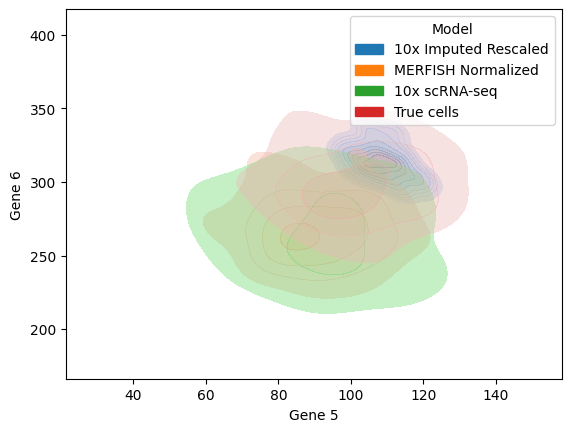
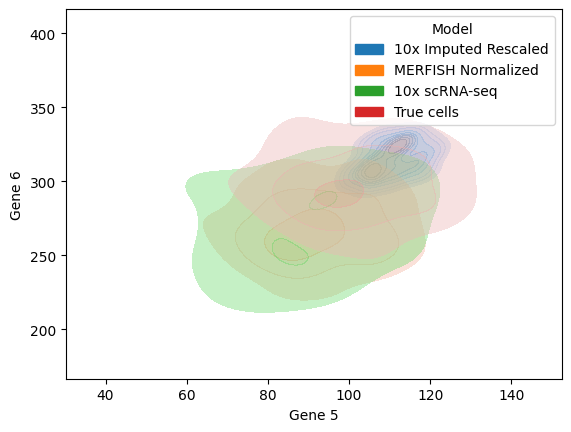
deploy: 8553b861dc1f3eac10ef0c5c61f1d69fff78cb56

diff --git a/searchindex.js b/searchindex.js
@@ -1,1 +1,1 @@
-Search.setIndex({docnames:["content","intro","markdown","notebooks"],envversion:{"sphinx.domains.c":2,"sphinx.domains.changeset":1,"sphinx.domains.citation":1,"sphinx.domains.cpp":5,"sphinx.domains.index":1,"sphinx.domains.javascript":2,"sphinx.domains.math":2,"sphinx.domains.python":3,"sphinx.domains.rst":2,"sphinx.domains.std":2,"sphinx.ext.intersphinx":1,"sphinxcontrib.bibtex":9,sphinx:56},filenames:["content.md","intro.md","markdown.md","notebooks.ipynb"],objects:{},objnames:{},objtypes:{},terms:{"0":3,"0s":3,"10":3,"100":3,"1000":3,"10000":3,"1002":3,"101":3,"10138":3,"102":3,"1031":3,"10366":3,"1056":3,"11":3,"110":3,"111":3,"116":3,"118":3,"121":3,"133":3,"15":3,"16":3,"17":3,"1738":3,"18":3,"19":3,"20":3,"2014":2,"21":3,"22":3,"23":3,"246":3,"2574":3,"263":3,"2672":3,"268":3,"269":3,"2691":3,"2698":3,"27":3,"2745":3,"285":3,"286":3,"2861":3,"29":3,"290":3,"293":3,"2938":3,"295":3,"296":3,"2961":3,"297":3,"2970":3,"2982":3,"2987":3,"30":3,"300":3,"3000":3,"3003":3,"3063":3,"3073":3,"3075":3,"317":3,"32":3,"320":3,"322":3,"37":3,"4":3,"40":3,"41":3,"5":3,"6":3,"7":3,"74":3,"8":3,"80":3,"85":3,"853":3,"861":3,"88":3,"887":3,"8930":3,"8968":3,"8972":3,"898":3,"9":3,"90":3,"902":3,"906":3,"912":3,"9135":3,"93":3,"930":3,"933":3,"9331":3,"94":3,"940":3,"944":3,"983":3,"99":3,"9927":3,"9959":3,"9983":3,"case":3,"default":[2,3],"do":[0,2],"function":[2,3],"import":3,"int":3,"new":[1,3],"return":3,"short":0,"true":3,At:2,For:2,If:2,In:2,It:2,The:2,Then:3,There:[0,2],_:3,abl:3,about:[1,2,3],academ:1,accept:2,add:2,after_imput:3,again:2,all:2,all_gen:3,allow:2,alpha:3,alreadi:2,also:[2,3],am:1,an:3,analysi:3,ani:[1,2],anndata:3,anoth:[2,3],appear:3,applymap:3,approach:3,ar:[0,3],artificially_sample_cel:3,associ:2,attempt:3,auditori:2,australia:2,axi:3,back:3,basi:3,becom:3,befor:3,before_imput:3,being:[2,3],bernoulli:3,besid:3,bib:2,bibliographi:2,bibtex:2,binomi:3,block:2,blog:3,book:2,both:2,bound:3,box:2,brian:2,brisban:2,broad:3,build:2,built:2,call:2,can:[1,2,3],captur:3,capture_r:3,cell:2,cell_gener:3,choic:3,christoph:2,cite:2,claim:3,close:3,cognit:2,column:3,come:3,command:2,commonmark:2,compar:3,complex:2,comput:[1,2],concat:3,confer:2,content:2,copi:3,cortex:2,could:3,cover:0,creat:3,create_synthetic_cel:3,current:3,d:2,data:1,datafram:3,de:2,def:3,defin:2,denois:3,depend:2,despit:3,determin:3,develop:3,df:3,differ:[2,3],directli:2,discov:3,diseas:1,displai:2,dist:3,distribut:3,divid:3,doc:2,document:2,doesn:2,downstream:3,drop:3,dropout:3,due:3,duplic:3,each:3,ecosystem:2,effect:3,els:3,engin:1,entir:2,errerron:3,evid:2,exact:3,exampl:2,exist:2,extens:2,extern:3,f:3,fail:3,fals:3,few:0,figur:3,fill:3,find:1,first:2,flavor:2,fluoresc:3,follow:2,fraction:3,from:3,frontier:2,g:3,gene:3,given:3,go:1,goal:3,ground:3,ha:[2,3],hdhpk14:2,head:3,health:1,heer:2,hello:1,help:[1,3],here:[2,3],high:3,hold:3,holdgraf:2,holdgraf_evidence_2014:2,how:0,hue:3,human:2,i:[1,3],identifi:3,ignore_index:3,improv:3,imputed_df:3,imputed_resc:3,imputed_rescaled_df:3,includ:[2,3],indic:3,inform:[2,3],init:2,inplac:3,input:[2,3],insert:2,insid:2,insight:1,institut:3,interest:1,intern:2,intro:2,ipynb:2,its:[2,3],journei:1,junior:1,jupyt:2,jupytext:2,kdeplot:3,kernel:2,kind:2,knight:2,krishnaswami:3,lab:3,lambda:3,languag:2,later:3,learn:1,len:3,less:2,leverag:1,like:2,limit:3,line:2,list:3,ll:2,look:2,lost:3,lower:3,m100:3,m100_new:3,m99:3,m99_new:3,mani:[0,2],markedli:2,markup:2,math:1,matplotlib:3,max:3,max_ratio:3,md:2,meanwhil:3,measur:3,median:3,merfish_df:3,merfish_original_synth:3,merfish_repr:3,merfish_rna_count:3,metadata:2,method:3,metric:3,mit:1,model:3,molecul:3,more:[2,3],moreov:2,mortem:3,most:2,mrna:3,much:3,multipli:3,must:2,my:[1,2],mydirectivenam:2,n:[2,3],n_job:3,name:[1,2],name_list:3,nb:2,nbinom:3,necessari:3,neg:3,neurosci:2,normalize_tot:3,normalized_sum:3,note:2,notebook:2,np:3,number:3,number_cel:3,numpi:3,obscur:3,observ:3,observerd:3,obtain:3,older:3,onc:2,one:2,onli:[2,3],order:3,our:3,output:[2,3],over:1,p:3,page:2,panda:3,paramet:3,paslei:2,path:2,pattern:2,pd:3,percentil:3,perform:3,pipelin:3,plt:3,popular:3,post:3,potenti:3,power:2,pp:3,pre:[2,3],predict:2,previous:3,print:2,probabl:3,process:3,profil:3,promis:3,properli:2,purpos:2,pyplot:3,ramsai:2,random:3,rang:3,rate:3,re:3,ready_for_plot:3,receiv:3,recuper:3,refer:2,regular:2,rel:2,relationship:3,render:2,repres:3,rescale_data:3,research:1,resembl:3,rest:2,result:2,rna:3,rna_species_char:3,rna_species_characteristic_numb:3,robert:2,rolenam:2,root:3,row:3,rule:1,run:2,rv:3,rv_continu:3,rv_discret:3,s:[2,3],same:2,sampl:3,saul:1,sc:3,scanpi:3,scatterplot:3,sce:3,scienc:1,scipi:3,scnra:3,seaborn:3,section:0,see:[1,2,3],seed:3,sequenc:3,serv:[2,3],set:3,set_axi:3,shape:3,share:1,sim_captur:3,similar:[2,3],simpl:3,simplest:2,singl:3,site:2,size:3,slight:2,small:2,sn:3,so:[0,2],solver:3,some:2,span:2,speci:3,specif:2,spectrum:3,sphinx:2,sqrt:3,squar:3,stand:2,stat:3,step:3,still:3,store:2,strive:1,structur:2,studi:1,success:3,successfulli:3,sum:3,support:3,syntax:2,synth_cel:3,t:[2,3],target:3,target_data:3,target_sum:3,tenx_norm:3,tenx_norm_df:3,tenx_original_synth:3,tenx_raw:3,tenx_repr:3,tenx_rescaled_norm:3,test:3,text:2,thei:[2,3],thi:[0,1,2,3],thing:1,think:3,those:2,through:1,throughout:1,thu:3,tile:3,time:[1,2],tip:0,tissu:3,to_df:3,tool:[2,3],transcript:3,transform:3,true_cells_df:3,truth:3,two:[2,3],univers:3,us:[1,3],util:3,valid:2,valu:3,variat:2,veri:2,version:3,vestigi:3,visual:3,wai:0,we:3,weight:3,welcom:2,wendi:2,what:1,when:2,where:3,wherea:2,whether:[2,3],which:[2,3],within:3,without:3,work:2,write:[0,2,3],written:2,x:3,y:3,you:2,your:3},titles:["Content in Jupyter Book","Welcome to the site!","Markdown Files","Evaluating MAGIC with Synthetic Dataset"],titleterms:{"1":3,"10x":3,"2":3,"3":3,ad:2,after:3,ar:2,book:0,both:3,cell:3,citat:2,code:2,content:0,count:3,data:3,dataset:3,direct:2,evalu:3,execut:2,file:2,gener:3,imput:3,intro:3,jupyt:0,magic:3,markdown:2,merfish:3,myst:2,normal:3,peek:3,plot:3,rescal:3,result:3,role:2,run:3,scrna:3,seq:3,simul:3,site:1,synthet:3,us:2,welcom:1,what:2,your:2}})
+Search.setIndex({docnames:["content","intro","markdown","notebooks"],envversion:{"sphinx.domains.c":2,"sphinx.domains.changeset":1,"sphinx.domains.citation":1,"sphinx.domains.cpp":5,"sphinx.domains.index":1,"sphinx.domains.javascript":2,"sphinx.domains.math":2,"sphinx.domains.python":3,"sphinx.domains.rst":2,"sphinx.domains.std":2,"sphinx.ext.intersphinx":1,"sphinxcontrib.bibtex":9,sphinx:56},filenames:["content.md","intro.md","markdown.md","notebooks.ipynb"],objects:{},objnames:{},objtypes:{},terms:{"0":3,"0s":3,"10":3,"100":3,"1000":3,"10000":3,"1002":3,"10138":3,"1031":3,"10366":3,"1056":3,"107":3,"112":3,"116":3,"118":3,"121":3,"13":3,"133":3,"16":3,"17":3,"1738":3,"18":3,"20":3,"2014":2,"21":3,"25":3,"2577":3,"260":3,"263":3,"265":3,"2673":3,"2686":3,"2690":3,"2736":3,"275":3,"277":3,"2861":3,"289":3,"29":3,"290":3,"295":3,"296":3,"2970":3,"2982":3,"2987":3,"299":3,"2993":3,"30":3,"300":3,"3000":3,"3009":3,"3049":3,"3070":3,"3073":3,"3129":3,"32":3,"320":3,"324":3,"329":3,"39":3,"4":3,"40":3,"44":3,"5":3,"6":3,"7":3,"76":3,"8":3,"84":3,"85":3,"857":3,"868":3,"875":3,"882":3,"8927":3,"8968":3,"897":3,"9":3,"90":3,"900":3,"9015":3,"902":3,"91":3,"9126":3,"922":3,"9300":3,"937":3,"94":3,"940":3,"95":3,"965":3,"983":3,"99":3,"9927":3,"9959":3,"9983":3,"case":3,"default":[2,3],"do":[0,2],"function":[2,3],"import":3,"int":3,"new":[1,3],"return":3,"short":0,"true":3,At:2,For:2,If:2,In:2,It:2,The:2,Then:3,There:[0,2],_:3,abl:3,about:[1,2,3],academ:1,accept:2,add:2,after_imput:3,again:2,all:2,all_gen:3,allow:2,alpha:3,alreadi:2,also:[2,3],am:1,an:3,analysi:3,ani:[1,2],anndata:3,anoth:[2,3],appear:3,applymap:3,approach:3,ar:[0,3],artificially_sample_cel:3,associ:2,attempt:3,auditori:2,australia:2,axi:3,back:3,basi:3,becom:3,befor:3,before_imput:3,being:[2,3],bernoulli:3,besid:3,bib:2,bibliographi:2,bibtex:2,binomi:3,block:2,blog:3,book:2,both:2,bound:3,box:2,brian:2,brisban:2,broad:3,build:2,built:2,call:2,can:[1,2,3],captur:3,capture_r:3,cell:2,cell_gener:3,choic:3,christoph:2,cite:2,claim:3,close:3,cognit:2,column:3,come:3,command:2,commonmark:2,compar:3,complex:2,comput:[1,2],concat:3,confer:2,content:2,copi:3,cortex:2,could:3,cover:0,creat:3,create_synthetic_cel:3,current:3,d:2,data:1,datafram:3,de:2,def:3,defin:2,denois:3,depend:2,despit:3,determin:3,develop:3,df:3,differ:[2,3],directli:2,discov:3,diseas:1,displai:2,dist:3,distribut:3,divid:3,doc:2,document:2,doesn:2,downstream:3,drop:3,dropout:3,due:3,duplic:3,each:3,ecosystem:2,effect:3,els:3,engin:1,entir:2,errerron:3,evid:2,exact:3,exampl:2,exist:2,extens:2,extern:3,f:3,fail:3,fals:3,few:0,figur:3,fill:3,find:1,first:2,flavor:2,fluoresc:3,follow:2,fraction:3,from:3,frontier:2,g:3,gene:3,given:3,go:1,goal:3,ground:3,ha:[2,3],hdhpk14:2,head:3,health:1,heer:2,hello:1,help:[1,3],here:[2,3],high:3,hold:3,holdgraf:2,holdgraf_evidence_2014:2,how:0,hue:3,human:2,i:[1,3],identifi:3,ignore_index:3,improv:3,imputed_df:3,imputed_resc:3,imputed_rescaled_df:3,includ:[2,3],indic:3,inform:[2,3],init:2,inplac:3,input:[2,3],insert:2,insid:2,insight:1,institut:3,interest:1,intern:2,intro:2,ipynb:2,its:[2,3],journei:1,junior:1,jupyt:2,jupytext:2,kdeplot:3,kernel:2,kind:2,knight:2,krishnaswami:3,lab:3,lambda:3,languag:2,later:3,learn:1,len:3,less:2,leverag:1,like:2,limit:3,line:2,list:3,ll:2,look:2,lost:3,lower:3,m100:3,m100_new:3,m99:3,m99_new:3,mani:[0,2],markedli:2,markup:2,math:1,matplotlib:3,max:3,max_ratio:3,md:2,meanwhil:3,measur:3,median:3,merfish_df:3,merfish_original_synth:3,merfish_repr:3,merfish_rna_count:3,metadata:2,method:3,metric:3,mit:1,model:3,molecul:3,more:[2,3],moreov:2,mortem:3,most:2,mrna:3,much:3,multipli:3,must:2,my:[1,2],mydirectivenam:2,n:[2,3],n_job:3,name:[1,2],name_list:3,nb:2,nbinom:3,necessari:3,neg:3,neurosci:2,normalize_tot:3,normalized_sum:3,note:2,notebook:2,np:3,number:3,number_cel:3,numpi:3,obscur:3,observ:3,observerd:3,obtain:3,older:3,onc:2,one:2,onli:[2,3],order:3,our:3,output:[2,3],over:1,p:3,page:2,panda:3,paramet:3,paslei:2,path:2,pattern:2,pd:3,percentil:3,perform:3,pipelin:3,plt:3,popular:3,post:3,potenti:3,power:2,pp:3,pre:[2,3],predict:2,previous:3,print:2,probabl:3,process:3,profil:3,promis:3,properli:2,purpos:2,pyplot:3,ramsai:2,random:3,rang:3,rate:3,re:3,ready_for_plot:3,receiv:3,recuper:3,refer:2,regular:2,rel:2,relationship:3,render:2,repres:3,rescale_data:3,research:1,resembl:3,rest:2,result:2,rna:3,rna_species_char:3,rna_species_characteristic_numb:3,robert:2,rolenam:2,root:3,row:3,rule:1,run:2,rv:3,rv_continu:3,rv_discret:3,s:[2,3],same:2,sampl:3,saul:1,sc:3,scanpi:3,scatterplot:3,sce:3,scienc:1,scipi:3,scnra:3,seaborn:3,section:0,see:[1,2,3],seed:3,sequenc:3,serv:[2,3],set:3,set_axi:3,shape:3,share:1,sim_captur:3,similar:[2,3],simpl:3,simplest:2,singl:3,site:2,size:3,slight:2,small:2,sn:3,so:[0,2],solver:3,some:2,span:2,speci:3,specif:2,spectrum:3,sphinx:2,sqrt:3,squar:3,stand:2,stat:3,step:3,still:3,store:2,strive:1,structur:2,studi:1,success:3,successfulli:3,sum:3,support:3,syntax:2,synth_cel:3,t:[2,3],target:3,target_data:3,target_sum:3,tenx_norm:3,tenx_norm_df:3,tenx_original_synth:3,tenx_raw:3,tenx_repr:3,tenx_rescaled_norm:3,test:3,text:2,thei:[2,3],thi:[0,1,2,3],thing:1,think:3,those:2,through:1,throughout:1,thu:3,tile:3,time:[1,2],tip:0,tissu:3,to_df:3,tool:[2,3],transcript:3,transform:3,true_cells_df:3,truth:3,two:[2,3],univers:3,us:[1,3],util:3,valid:2,valu:3,variat:2,veri:2,version:3,vestigi:3,visual:3,wai:0,we:3,weight:3,welcom:2,wendi:2,what:1,when:2,where:3,wherea:2,whether:[2,3],which:[2,3],within:3,without:3,work:2,write:[0,2,3],written:2,x:3,y:3,you:2,your:3},titles:["Content in Jupyter Book","Welcome to the site!","Markdown Files","Evaluating MAGIC with Synthetic Dataset"],titleterms:{"1":3,"10x":3,"2":3,"3":3,ad:2,after:3,ar:2,book:0,both:3,cell:3,citat:2,code:2,content:0,count:3,data:3,dataset:3,direct:2,evalu:3,execut:2,file:2,gener:3,imput:3,intro:3,jupyt:0,magic:3,markdown:2,merfish:3,myst:2,normal:3,peek:3,plot:3,rescal:3,result:3,role:2,run:3,scrna:3,seq:3,simul:3,site:1,synthet:3,us:2,welcom:1,what:2,your:2}})

diff --git a/notebooks.html b/notebooks.html
@@ -537,7 +537,7 @@ from scipy.stats import nbinom
 </div>
 </div>
 </div>
-<div class="cell docutils container">
+<div class="cell tag_hide-input docutils container">
 <div class="cell_input docutils container">
 <div class="highlight-ipython3 notranslate"><div class="highlight"><pre><span></span># Functions
 seed(1738)
@@ -781,40 +781,40 @@ tenx_original_synth[&quot;Model&quot;] = &quot;10x scRNA-seq&quot;
     <tr>
       <th>0</th>
       <td>1</td>
-      <td>3</td>
+      <td>2</td>
       <td>7</td>
-      <td>27</td>
-      <td>111</td>
-      <td>263</td>
-      <td>861</td>
-      <td>2698</td>
-      <td>9135</td>
+      <td>29</td>
+      <td>112</td>
+      <td>260</td>
+      <td>857</td>
+      <td>2686</td>
+      <td>9126</td>
       <td>MERFISH</td>
     </tr>
     <tr>
       <th>1</th>
       <td>2</td>
       <td>3</td>
-      <td>3</td>
+      <td>5</td>
       <td>20</td>
-      <td>101</td>
-      <td>269</td>
-      <td>912</td>
-      <td>2691</td>
-      <td>9331</td>
+      <td>99</td>
+      <td>265</td>
+      <td>900</td>
+      <td>2673</td>
+      <td>9300</td>
       <td>MERFISH</td>
     </tr>
     <tr>
       <th>2</th>
-      <td>8</td>
-      <td>0</td>
-      <td>15</td>
+      <td>7</td>
+      <td>1</td>
+      <td>13</td>
       <td>16</td>
       <td>118</td>
-      <td>285</td>
-      <td>933</td>
-      <td>2745</td>
-      <td>8968</td>
+      <td>289</td>
+      <td>922</td>
+      <td>2736</td>
+      <td>9015</td>
       <td>MERFISH</td>
     </tr>
     <tr>
@@ -822,25 +822,25 @@ tenx_original_synth[&quot;Model&quot;] = &quot;10x scRNA-seq&quot;
       <td>0</td>
       <td>2</td>
       <td>8</td>
-      <td>23</td>
-      <td>110</td>
-      <td>293</td>
-      <td>902</td>
-      <td>2574</td>
-      <td>8972</td>
+      <td>25</td>
+      <td>107</td>
+      <td>290</td>
+      <td>868</td>
+      <td>2577</td>
+      <td>8927</td>
       <td>MERFISH</td>
     </tr>
     <tr>
       <th>4</th>
+      <td>6</td>
+      <td>2</td>
       <td>7</td>
-      <td>1</td>
-      <td>7</td>
-      <td>22</td>
-      <td>74</td>
-      <td>246</td>
-      <td>944</td>
-      <td>2672</td>
-      <td>8930</td>
+      <td>29</td>
+      <td>76</td>
+      <td>263</td>
+      <td>965</td>
+      <td>2690</td>
+      <td>8968</td>
       <td>MERFISH</td>
     </tr>
   </tbody>
@@ -891,66 +891,66 @@ tenx_original_synth[&quot;Model&quot;] = &quot;10x scRNA-seq&quot;
     <tr>
       <th>0</th>
       <td>0</td>
-      <td>2</td>
+      <td>1</td>
       <td>3</td>
-      <td>6</td>
-      <td>37</td>
-      <td>94</td>
-      <td>268</td>
-      <td>906</td>
-      <td>3075</td>
+      <td>9</td>
+      <td>32</td>
+      <td>85</td>
+      <td>277</td>
+      <td>897</td>
+      <td>3070</td>
       <td>10x scRNA-seq</td>
     </tr>
     <tr>
       <th>1</th>
       <td>1</td>
+      <td>1</td>
       <td>2</td>
-      <td>2</td>
-      <td>9</td>
-      <td>41</td>
-      <td>80</td>
-      <td>297</td>
-      <td>853</td>
-      <td>3063</td>
+      <td>10</td>
+      <td>39</td>
+      <td>91</td>
+      <td>299</td>
+      <td>902</td>
+      <td>3129</td>
       <td>10x scRNA-seq</td>
     </tr>
     <tr>
       <th>2</th>
-      <td>1</td>
+      <td>2</td>
       <td>0</td>
       <td>4</td>
-      <td>7</td>
-      <td>41</td>
-      <td>102</td>
-      <td>286</td>
-      <td>898</td>
-      <td>2961</td>
+      <td>6</td>
+      <td>44</td>
+      <td>94</td>
+      <td>324</td>
+      <td>937</td>
+      <td>3049</td>
       <td>10x scRNA-seq</td>
     </tr>
     <tr>
       <th>3</th>
       <td>0</td>
       <td>1</td>
-      <td>3</td>
-      <td>4</td>
-      <td>40</td>
-      <td>93</td>
-      <td>317</td>
-      <td>887</td>
-      <td>3003</td>
+      <td>2</td>
+      <td>7</td>
+      <td>30</td>
+      <td>95</td>
+      <td>275</td>
+      <td>875</td>
+      <td>2993</td>
       <td>10x scRNA-seq</td>
     </tr>
     <tr>
       <th>4</th>
-      <td>2</td>
-      <td>0</td>
-      <td>2</td>
-      <td>11</td>
-      <td>19</td>
-      <td>88</td>
-      <td>322</td>
-      <td>930</td>
-      <td>2938</td>
+      <td>3</td>
+      <td>1</td>
+      <td>3</td>
+      <td>8</td>
+      <td>30</td>
+      <td>84</td>
+      <td>329</td>
+      <td>882</td>
+      <td>3009</td>
       <td>10x scRNA-seq</td>
     </tr>
   </tbody>
